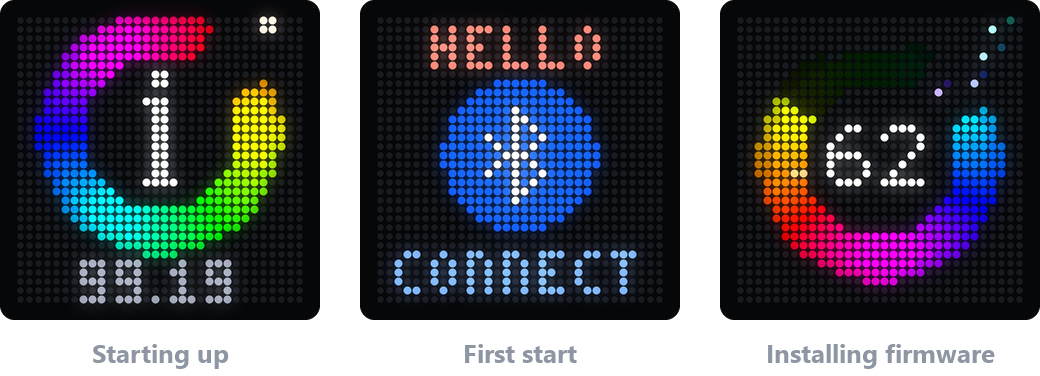
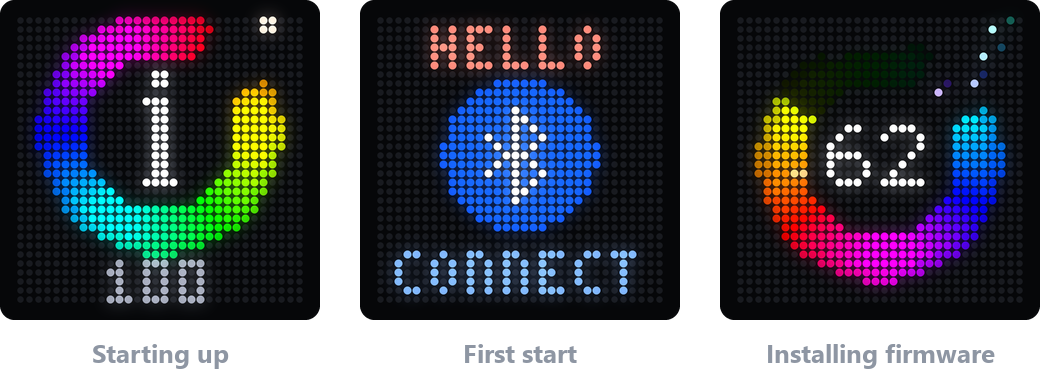
One version number, starting at 100: releases v100, v101, ... picked by the CI and built into the firmware

Changed region(s): [[0.0615, 0.6729, 0.2462, 0.8191]]

diff --git a/webui/index.html b/webui/index.html
@@ -776,7 +776,17 @@ function onDisconnected() {
   busy = false;
 }
 window.addEventListener("pagehide", releaseDevice);
-const verText = (v) => `${v[4]}.${String(v[5]).padStart(2, "0")}`;
+/* 0x8005 reply -> version. openipixelcolor: one number (100, 101, ...) in the "major" byte (from 256 on:
+   255 + minor); builds before that: 99.xx; the vendor firmware: 3.x. level orders openipixelcolor builds
+   (99.xx -> xx, so 99.18 < 100) and is 0 for the vendor firmware. */
+function fwVersionOf(v) {
+  const maj = v[4], min = v[5], two = `${maj}.${String(min).padStart(2, "0")}`;
+  if (maj >= 100) { const n = maj === 255 ? 255 + min : maj; return { custom: true, text: String(n), level: n }; }
+  if (maj === 99) return { custom: true, text: two, level: min };
+  return { custom: false, text: two, level: 0 };
+}
+const verText = (v) => fwVersionOf(v).text;
+const versionLevel = (s) => (/^99\.\d+$/.test(s) ? Number(s.slice(3)) : /^\d+$/.test(s) && Number(s) >= 100 ? Number(s) : 0);
 /* 0xF0F1: mode crashes exc_type exc_address(4) uptime_s(4) - see firmware/src/main.c */
 function healthText(d) {
   const mode = d[5], exc = d[7], addr = (d[8] | (d[9] << 8) | (d[10] << 16) | (d[11] << 24)) >>> 0;
@@ -799,8 +809,7 @@ async function attach() {
   const now = new Date();
   await rawSend(packet(0x8001, [now.getHours(), now.getMinutes(), now.getSeconds(), 0]), 4000);
   const v = await rawSend(packet(0x8005), 4000);
-  custom = v[4] === 99;
-  fwMinor = custom ? v[5] : 0;
+  ({ custom, level: fwMinor } = fwVersionOf(v));
   $("#fwVer").textContent = custom ? verText(v) : `Vendor firmware ${verText(v)}`;
   $("#fwVerFull").textContent = `${verText(v)}${custom ? " (openipixelcolor)" : " (vendor firmware)"}`;
   $("#btVer").textContent = `${v[6]}.${String(v[7]).padStart(2, "0")}`;
@@ -857,7 +866,7 @@ async function refreshStatus() {
     $$("#effectTiles .tile").forEach((t, i) => t.classList.toggle("lit", mode === 0 && i === eff));
     $$("#clockTiles .tile").forEach((t, i) => t.classList.toggle("lit", mode === 1 && r.length >= 15 && i === r[14]));
     if (r.length >= 14) $$(".rotate .btn").forEach((b) => b.classList.toggle("lit", Number(b.dataset.orient) === r[13]));
-    if (fwMinor < 12) { $("#savedState").textContent = "Not kept (needs firmware 99.12)"; return; }
+    if (fwMinor < 12) { $("#savedState").textContent = "Not kept (needs newer firmware)"; return; }
     const s = await send(0xF109);
     if (s[2] === 0x09 && s[3] === 0xF1 && s.length >= 13) $("#savedState").textContent = savedText(s);
   } catch (e) { /* the next poll retries */ }
@@ -1612,7 +1621,7 @@ function fwLog(msg, err) {
 const fwEncode = (raw) => raw.map((b) => ((b ^ 0x4A) + 0x8A) & 255);
 const fwDecode = (enc) => enc.map((b) => ((b - 0x8A) & 255) ^ 0x4A);
 const hasImageHeader = (raw) => raw.length > 0x100 && raw[0] === 0x48 && raw[0xD4] === 0x46 && raw[0xD5] === 0x48 && raw[0xD6] === 0x44 && raw[0xD7] === 0x03;
-let fwVersion = null;              // "99.18" when the file is openipixelcolor, else null
+let fwVersion = null;              // "101" when the file is openipixelcolor (older builds: "99.18"), else null
 function loadFirmware(bytes, name) {
   let raw = null, enc = null, kind, ok = false;
   if (hasImageHeader(bytes)) { raw = bytes; enc = fwEncode(bytes); }
@@ -1621,7 +1630,7 @@ function loadFirmware(bytes, name) {
   if (!raw) kind = "Not a firmware file for this panel.";
   else if (raw.length > 0xF7800) kind = "Too big for this panel.";
   else {
-    const m = new TextDecoder("latin1").decode(raw).match(/openipixelcolor (\d+\.\d\d)/);
+    const m = new TextDecoder("latin1").decode(raw).match(/openipixelcolor (\d+(?:\.\d\d)?)\b/);
     fwVersion = m ? m[1] : null;
     kind = m ? `openipixelcolor ${m[1]}` : "Other firmware for this panel (for example the vendor's)";
     ok = true;
@@ -1653,12 +1662,12 @@ fwDrop.addEventListener("drop", async (e) => {
 const LOCAL_BUILD = "local-build/fw.ota.bin";
 const onThisComputer = /^(localhost|127\.0\.0\.1|\[::1\])$/.test(location.hostname);
 let latestRelease = null;             // { version, tag, file, size, date, release }
-const newerVersion = (a, b) => { const [x, y] = [a, b].map((s) => s.split(".").map(Number)); return x[0] > y[0] || (x[0] === y[0] && x[1] > y[1]); };
+const newerVersion = (a, b) => versionLevel(a) > versionLevel(b);
 function releaseHint() {              // after connecting: tell when there is something newer to install
   if (!latestRelease || !chWrite || busy) return;
   const cur = $("#fwVerFull").textContent.split(" ")[0];
   if (!custom) status(`This panel runs the vendor firmware. openipixelcolor ${latestRelease.version} can be installed under Settings.`, true);
-  else if (/^\d+\.\d+$/.test(cur) && newerVersion(latestRelease.version, cur)) status(`Firmware ${latestRelease.version} is available. Install it under Settings.`);
+  else if (versionLevel(cur) && newerVersion(latestRelease.version, cur)) status(`Firmware ${latestRelease.version} is available. Install it under Settings.`);
 }
 if (onThisComputer) {
   fetch(LOCAL_BUILD, { method: "HEAD", cache: "no-store" }).then((r) => {
@@ -1669,7 +1678,7 @@ if (onThisComputer) {
   }).catch(() => { /* not served by serve.py */ });
 } else {
   fetch("firmware/latest.json", { cache: "no-store" }).then((r) => (r.ok ? r.json() : null)).then((j) => {
-    if (!j || !j.file || !/^\d+\.\d+$/.test(j.version)) return;
+    if (!j || !j.file || !versionLevel(String(j.version))) return;
     latestRelease = j;
     $("#fwRelNote").textContent = `openipixelcolor ${j.version}, ${new Date(j.date).toLocaleDateString()}`;
     $("#fwRelRow").hidden = false;
@@ -1764,7 +1773,7 @@ $("#btnInstall").addEventListener("click", async () => {
       const got = verText(v);
       if (want && got !== want) throw new Error(`The panel came back with ${got} instead of ${want}: the update wasn't installed.`);
       if (health && health[5] !== 0) throw new Error(`The panel came back in rescue mode (${healthText(health)}). Install a working firmware.`);
-      fwLog(`The panel is back and runs ${got}${v[4] === 99 ? "" : " (vendor firmware)"}.`);
+      fwLog(`The panel is back and runs ${got}${fwVersionOf(v).custom ? "" : " (vendor firmware)"}.`);
     }
     fwLog(rounds === 2 ? `Done: ${want} is installed and has proved it can install updates itself.` : "Done.");
     busy = false; holdDevice = false;

diff --git a/firmware/src/app/fwinfo.h b/firmware/src/app/fwinfo.h
@@ -2,11 +2,22 @@
 #pragma once
 #include <stdint.h>
 
-/* Reported by cmd 0x8005 as "MCU major.minor". The vendor firmware reports 3.x; this one reports 99.xx so
- * the two can never be confused (tools and the web UI rely on it). */
-#define FW_VER_MAJOR  99u
-#define FW_VER_MINOR  19u
-#define FW_VERSION_STR "99.19"   /* 99.02: flash status read order fixed (99.01 could not write flash)
+/* The version is one number: 100, 101, 102, ... Every firmware release gets the next one: the CI takes it
+ * from the release tags (v100, v101, ...) and builds with FW_VERSION=<n>; local builds do the same from the
+ * local tags (Makefile). Cmd 0x8005 reports it where the vendor firmware puts "MCU major.minor":
+ * major = the number, minor 0 (from 256 on: major 255, minor = number - 255). The vendor firmware reports
+ * 3.x and the builds before the single numbers 99.xx, so the three can never be confused. */
+#ifndef FW_VERSION
+#define FW_VERSION 100
+#endif
+#define FW_VER_MAJOR   ((FW_VERSION) > 255 ? 255u : (unsigned)(FW_VERSION))
+#define FW_VER_MINOR   ((FW_VERSION) > 255 ? (unsigned)(FW_VERSION) - 255u : 0u)
+#define FW_STR_(x)     #x
+#define FW_STR(x)      FW_STR_(x)
+#define FW_VERSION_STR FW_STR(FW_VERSION)
+
+/* Before the single numbers (major.minor):
+                                    99.02: flash status read order fixed (99.01 could not write flash)
                                     99.03: minimum erase/program waits, display stopped during updates
                                     99.10: effects, clocks, text, canvas, rhythm/score/timer, BLE app cmds
                                     99.11: default orientation 2, richer status reply
@@ -19,7 +30,8 @@
                                     99.18: animations uploaded over Bluetooth, stored in flash and played
                                            by the panel (0xF10C-0xF111, anim.c), settings layout 3
                                     99.19: logo boot screen, welcome screen on the first start (mode 10),
-                                           update screen instead of a dark panel during updates (screens.c) */
+                                           update screen instead of a dark panel during updates (screens.c)
+   From 100 on, the changes are in the release notes on GitHub. */
 
 /* Replies travel MCU -> UART2 -> BLE chip -> notify; the BLE chip forwards at most 16 bytes (seen on HW).
  * openipixelcolor diagnostics command; reply (16 B): 10 00 F1 F0 01 mode crash exc_type ipc(4) uptime_s(4) */

diff --git a/tools/ble/ota_flash_guarded.py b/tools/ble/ota_flash_guarded.py
@@ -5,7 +5,7 @@ exactly 05 00 00 C0 01 (announce) / 05 00 01 C0 01 (chunk), otherwise it stops. 
 connects and checks the version (dry run).
 
 usage: python ota_flash_guarded.py <addr> <encoded.bin> --expect <version shown by the panel> [--go]
-       e.g. --expect 99.17 when updating openipixelcolor, or the vendor version (3.x) for the first install
+       e.g. --expect 101 when updating openipixelcolor 101, or the vendor version (3.17) for the first install
 """
 import argparse
 import asyncio
@@ -30,11 +30,19 @@ def check_image(data: bytes) -> None:
         raise SystemExit("decoded first byte is not an NDS32 `j` (0x48) - not a valid encoded image")
 
 
+def version_text(major: int, minor: int) -> str:
+    """0x8005 reply -> version as shown: openipixelcolor 100, 101, ... (from 256 on: 255 + minor), earlier
+    builds 99.xx, the vendor firmware 3.x"""
+    if major >= 100:
+        return str(255 + minor if major == 255 else major)
+    return f"{major}.{minor:02d}"
+
+
 async def main() -> None:
     ap = argparse.ArgumentParser()
     ap.add_argument("addr")
     ap.add_argument("image")
-    ap.add_argument("--expect", required=True, help="version the panel must report, e.g. 99.17")
+    ap.add_argument("--expect", required=True, help="version the panel must report, e.g. 101 or 3.17")
     ap.add_argument("--go", action="store_true")
     a = ap.parse_args()
 
@@ -66,10 +74,10 @@ async def main() -> None:
 
         await send(bytes([4, 0, 5, 0x80]))
         v = await reply(5)
-        ver = f"{v[4]}.{v[5]:02d}" if len(v) >= 8 and v[2:4] == b"\x05\x80" else "?"
-        print(f"device version reply {v.hex(' ')} -> MCU {ver}")
+        ver = version_text(v[4], v[5]) if len(v) >= 8 and v[2:4] == b"\x05\x80" else "?"
+        print(f"device version reply {v.hex(' ')} -> version {ver}")
         if ver != a.expect:
-            raise SystemExit(f"device reports MCU {ver}, expected {a.expect} - not flashing")
+            raise SystemExit(f"the panel reports version {ver}, expected {a.expect} - not flashing")
         if not a.go:
             print("dry run OK (add --go to flash)")
             return

diff --git a/firmware/src/app/proto.c b/firmware/src/app/proto.c
@@ -49,8 +49,8 @@ void proto_handle(const uint8_t *pkt, unsigned len)
         link_reply(0x8001, DEVICE_TYPE_32X32, x, sizeof x);
         break; }
     case 0x8005: {                                     /* versions: 08 00 05 80 mcu_maj mcu_min bt_maj bt_min */
-        uint8_t x[3] = { FW_VER_MINOR, bt_ver_major, bt_ver_minor };
-        link_reply(0x8005, FW_VER_MAJOR, x, 3);
+        uint8_t x[3] = { (uint8_t)FW_VER_MINOR, bt_ver_major, bt_ver_minor };   /* the version number: fwinfo.h */
+        link_reply(0x8005, (uint8_t)FW_VER_MAJOR, x, 3);
         break; }
     case 0xC000: {                                     /* OTA begin */
         anim_abort_upload();                           /* one flash writer at a time */

diff --git a/tools/ble/ota_flash_probe.py b/tools/ble/ota_flash_probe.py
@@ -47,7 +47,7 @@ async def main():
         await send(bytes([4, 0, 5, 0x80]))
         _, v = await asyncio.wait_for(q.get(), 5)
         print(f"version reply {v.hex(' ')}")
-        if v[4] != 99:
+        if v[4] < 99:                  # openipixelcolor: 99.xx before, 100 and up now
             raise SystemExit("not running openipixelcolor - refusing")
 
         await send(announce)

diff --git a/README.md b/README.md
@@ -89,7 +89,7 @@ python tools/ble/ble_scan_all.py          # look for LED_BLE_… with svc=fa00
 python tools/ble/ble_probe.py <ADDRESS>   # read-only: shows the firmware version
 ```
 
-The vendor firmware reports MCU version 3.x; openipixelcolor reports 99.xx.
+The vendor firmware reports version 3.x; openipixelcolor reports its version number (100, 101, …).
 
 ### 2. Build
 
@@ -105,8 +105,9 @@ leaves its cache window.
 
 No toolchain? You don't need one. Every push to `main` that changes `firmware/` is built by
 [GitHub Actions](https://github.com/Almo7aya/openipixelcolor/actions/workflows/firmware.yml) and
-published on the [Releases](https://github.com/Almo7aya/openipixelcolor/releases) page (tag
-`v<version>-<commit>`); the hosted web page always offers the newest one. Builds of other pushes and of
+published on the [Releases](https://github.com/Almo7aya/openipixelcolor/releases) page as the next
+version: v100, v101, v102, … (one number, one more with every firmware release; the number is built into the
+firmware and shown on the panel when it starts). The hosted web page always offers the newest one. Builds of other pushes and of
 pull requests are kept as artifacts of their run.
 
 ### 3. Install
@@ -123,11 +124,11 @@ From the command line instead (dry run first; it only checks the version):
 ```sh
 python tools/ble/ota_flash_guarded.py <ADDRESS> firmware/build/fw.ota.bin --expect <version>
 python tools/ble/ota_flash_guarded.py <ADDRESS> firmware/build/fw.ota.bin --expect <version> --go
-python tools/ble/ble_probe.py <ADDRESS>   # should now say 99.xx
+python tools/ble/ble_probe.py <ADDRESS>   # the version reply now starts with 64 (100) or more
 ```
 
 `--expect` is the version the panel reports right now (for example `3.17` for the vendor firmware, or
-`99.17` when updating openipixelcolor). The tool stops if the panel reports anything else, and stops at
+`101` when updating openipixelcolor 101). The tool stops if the panel reports anything else, and stops at
 the first unexpected reply.
 
 After the last chunk the panel restarts and its bootloader installs the image.

diff --git a/docs/PROTOCOL.md b/docs/PROTOCOL.md
@@ -21,7 +21,7 @@ consecutive writes; the module puts it back together.
 most 16 bytes, and a 16-byte reply can arrive twice. Match replies to requests by bytes 2–3 (the
 command) and ignore anything else.
 
-Example: version query `04 00 05 80` → reply `08 00 05 80 63 11 xx yy` (MCU 99.17, module xx.yy).
+Example: version query `04 00 05 80` → reply `08 00 05 80 65 00 xx yy` (openipixelcolor 101, module xx.yy).
 
 ## Commands compatible with the vendor app
 
@@ -30,7 +30,7 @@ Example: version query `04 00 05 80` → reply `08 00 05 80 63 11 xx yy` (MCU 99
 | `0x8001` | `hh mm ss 00` | Sets the time; replies with the device type (`0x81` = 32×32) |
 | `0x8003` | – | Clear: back to effects with autoplay |
 | `0x8004` | `percent` | Brightness 0–100 |
-| `0x8005` | – | Versions: reply `mcu_major mcu_minor module_major module_minor`. openipixelcolor reports **99.xx**, the vendor firmware 3.x |
+| `0x8005` | – | Versions: reply `mcu_major mcu_minor module_major module_minor`. openipixelcolor reports its version number N (100 and up) as `N 0` (from 256 on: `255 N−255`); the vendor firmware reports 3.x, openipixelcolor builds before 100 reported 99.xx |
 | `0x8006` | `0–3` | Orientation |
 | `0x8008` | `x x n` | Show effect `n` (third byte) |
 | `0x8009` | `0 stop / 1 start / 2 pause` | Stopwatch |
